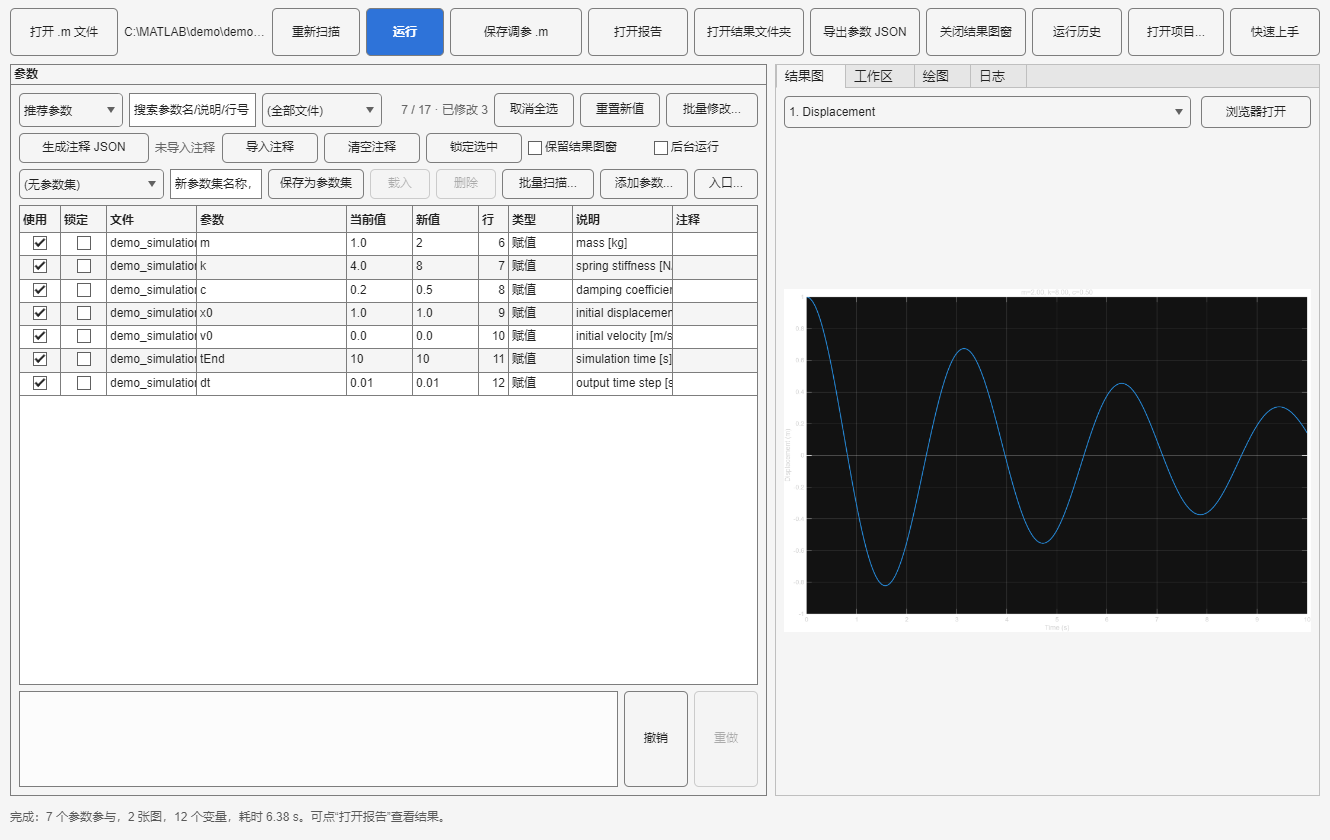
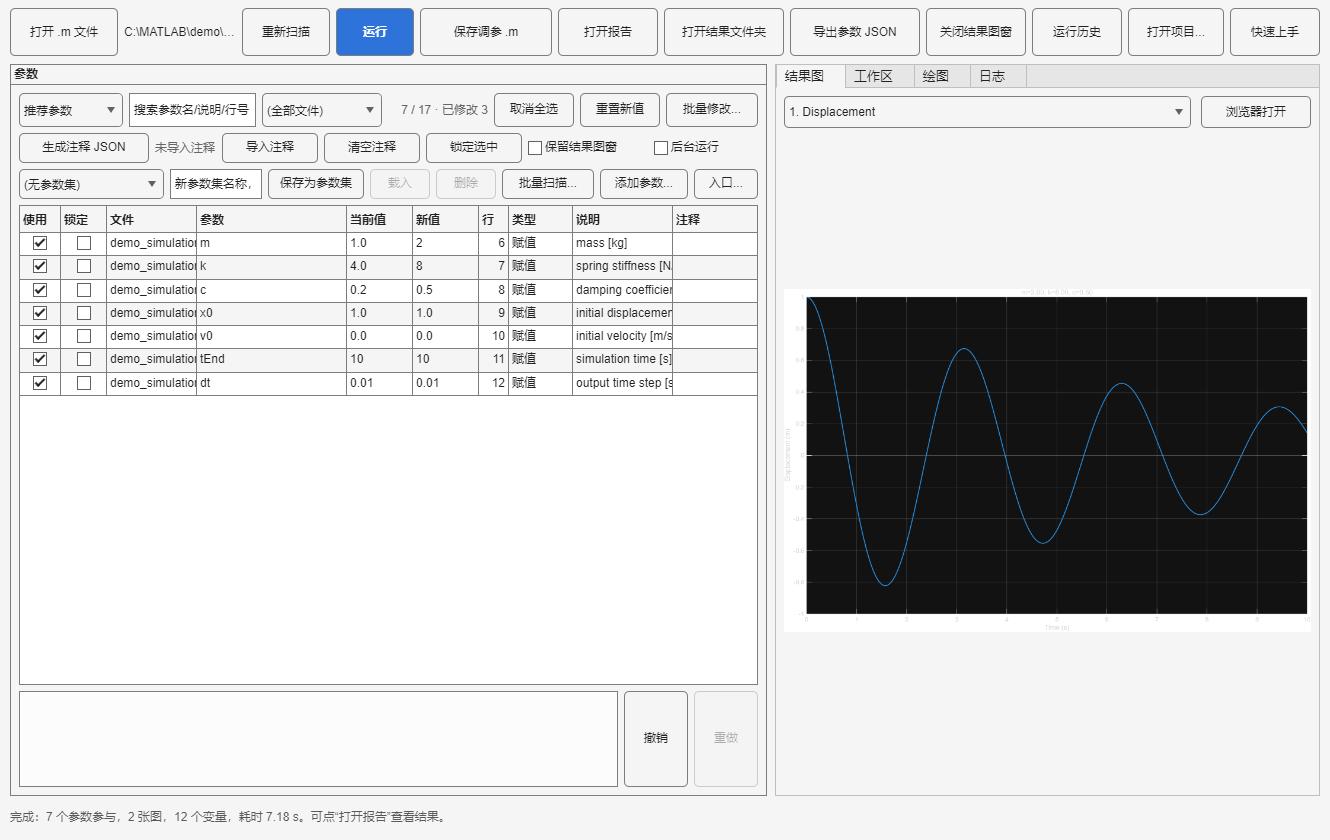
Add bilingual screenshots and fix English UI truncation
- generate Chinese and English screenshot sets from make_screenshots
- point the English README at the English screenshots
- shorten English labels and widen columns to avoid clipped text
- document the bilingual screenshot workflow in the release checklist

Changed region(s): [[0.1541, 0.0, 0.4008, 0.0929], [0.4316, 0.0, 0.6782, 0.0619]]

diff --git a/+mps/buildAppUI.m b/+mps/buildAppUI.m
@@ -7,6 +7,7 @@ function h = buildAppUI(cb)
 %   mps.App.uiCallbacks).
 
     h = struct();
+    isEnglish = strcmp(mps.language(), 'en');
 
     h.UIFigure = uifigure('Name', 'MATLAB Parameter Studio', ...
         'Position', [80 60 1340 840], 'Visible', 'off');
@@ -25,7 +26,7 @@ function h = buildAppUI(cb)
 
     tb = uigridlayout(root, [1 12]);
     tb.Layout.Row = 1;
-    tb.ColumnWidth = {108, '1x', 88, 78, 132, 100, 110, 110, 100, 90, 96, 90};
+    tb.ColumnWidth = {108, '1x', 88, 78, 132, 100, 120, 130, 100, 90, 96, 90};
     tb.Padding = [0 0 0 0];
     tb.ColumnSpacing = 6;
 
@@ -68,7 +69,7 @@ function h = buildAppUI(cb)
     h.FolderButton.Layout.Column = 7;
 
     h.ExportButton = uibutton(tb, ...
-        'Text', mps.tr('导出参数 JSON', 'Export parameters JSON'), ...
+        'Text', mps.tr('导出参数 JSON', 'Export params JSON'), ...
         'Enable', 'off', 'ButtonPushedFcn', @(s, e) cb.onExportParams());
     h.ExportButton.Layout.Column = 8;
 
@@ -108,7 +109,11 @@ function h = buildAppUI(cb)
 
     fg = uigridlayout(lg, [1 7]);
     fg.Layout.Row = 1;
-    fg.ColumnWidth = {104, '1x', 120, 100, 80, 80, 92};
+    if isEnglish
+        fg.ColumnWidth = {116, '1x', 110, 100, 110, 90, 92};
+    else
+        fg.ColumnWidth = {104, '1x', 120, 100, 80, 80, 92};
+    end
     fg.Padding = [0 0 0 0];
     fg.ColumnSpacing = 6;
 
@@ -123,7 +128,7 @@ function h = buildAppUI(cb)
 
     h.SearchField = uieditfield(fg, 'text', ...
         'Placeholder', mps.tr('搜索参数名/说明/行号', ...
-            'Search name / description / line'), ...
+            'Search...'), ...
         'ValueChangedFcn', @(s, e) cb.refreshTable());
     h.SearchField.Layout.Column = 2;
 
@@ -139,12 +144,12 @@ function h = buildAppUI(cb)
     h.CountLabel.Layout.Column = 4;
 
     h.SelectAllButton = uibutton(fg, ...
-        'Text', mps.tr('全选推荐', 'Select recommended'), ...
+        'Text', mps.tr('全选推荐', 'Use recommended'), ...
         'ButtonPushedFcn', @(s, e) cb.onSelectAll());
     h.SelectAllButton.Layout.Column = 5;
 
     h.ResetButton = uibutton(fg, ...
-        'Text', mps.tr('重置新值', 'Reset new values'), ...
+        'Text', mps.tr('重置新值', 'Reset values'), ...
         'ButtonPushedFcn', @(s, e) cb.onReset());
     h.ResetButton.Layout.Column = 6;
 
@@ -156,35 +161,39 @@ function h = buildAppUI(cb)
 
     ag = uigridlayout(lg, [1 7]);
     ag.Layout.Row = 2;
-    ag.ColumnWidth = {130, '1x', 96, 96, 96, 120, 104};
+    if isEnglish
+        ag.ColumnWidth = {140, '1x', 96, 96, 96, 120, 110};
+    else
+        ag.ColumnWidth = {130, '1x', 96, 96, 96, 120, 104};
+    end
     ag.Padding = [0 0 0 0];
     ag.ColumnSpacing = 6;
 
     h.AnnotateTemplateButton = uibutton(ag, ...
-        'Text', mps.tr('生成注释 JSON', 'Generate annotation JSON'), ...
+        'Text', mps.tr('生成注释 JSON', 'Annotation JSON'), ...
         'Enable', 'off', ...
         'ButtonPushedFcn', @(s, e) cb.onWriteAnnotationTemplate());
     h.AnnotateTemplateButton.Layout.Column = 1;
 
     h.AnnotationStatus = uilabel(ag, ...
-        'Text', mps.tr('未导入注释', 'No annotations imported'), ...
+        'Text', mps.tr('未导入注释', 'None'), ...
         'FontColor', [0.4 0.4 0.4]);
     h.AnnotationStatus.Layout.Column = 2;
 
     h.ImportAnnotationButton = uibutton(ag, ...
-        'Text', mps.tr('导入注释', 'Import annotations'), ...
+        'Text', mps.tr('导入注释', 'Import'), ...
         'Enable', 'off', ...
         'ButtonPushedFcn', @(s, e) cb.onImportAnnotations());
     h.ImportAnnotationButton.Layout.Column = 3;
 
     h.ClearAnnotationButton = uibutton(ag, ...
-        'Text', mps.tr('清空注释', 'Clear annotations'), ...
+        'Text', mps.tr('清空注释', 'Clear'), ...
         'Enable', 'off', ...
         'ButtonPushedFcn', @(s, e) cb.onClearAnnotations());
     h.ClearAnnotationButton.Layout.Column = 4;
 
     h.LockButton = uibutton(ag, ...
-        'Text', mps.tr('锁定选中', 'Lock selected'), ...
+        'Text', mps.tr('锁定选中', 'Lock'), ...
         'Enable', 'off', ...
         'ButtonPushedFcn', @(s, e) cb.onToggleLock());
     h.LockButton.Layout.Column = 5;
@@ -202,7 +211,11 @@ function h = buildAppUI(cb)
 
     pg2 = uigridlayout(lg, [1 8]);
     pg2.Layout.Row = 3;
-    pg2.ColumnWidth = {145, '1x', 96, 60, 60, 92, 88, 64};
+    if isEnglish
+        pg2.ColumnWidth = {145, '1x', 96, 60, 60, 92, 96, 80};
+    else
+        pg2.ColumnWidth = {145, '1x', 96, 60, 60, 92, 88, 64};
+    end
     pg2.Padding = [0 0 0 0];
     pg2.ColumnSpacing = 6;
 
@@ -213,7 +226,7 @@ function h = buildAppUI(cb)
 
     h.PresetNameField = uieditfield(pg2, 'text', ...
         'Placeholder', mps.tr('新参数集名称，如 基线 / 高刚度', ...
-            'New preset name, e.g. Baseline / High stiffness'));
+            'New preset name'));
     h.PresetNameField.Layout.Column = 2;
 
     h.PresetSaveButton = uibutton(pg2, ...
@@ -247,20 +260,25 @@ function h = buildAppUI(cb)
     h.ManualButton.Layout.Column = 7;
 
     h.EntryButton = uibutton(pg2, ...
-        'Text', mps.tr('入口...', 'Entry point...'), ...
+        'Text', mps.tr('入口...', 'Entry point'), ...
         'Enable', 'off', ...
         'ButtonPushedFcn', @(s, e) cb.onChooseEntry());
     h.EntryButton.Layout.Column = 8;
 
+    if isEnglish
+        tableWidths = {40, 46, 60, 110, 66, 66, 44, 76, 150, '1x'};
+    else
+        tableWidths = {40, 46, 90, 150, 66, 66, 30, 64, 100, '1x'};
+    end
     h.Table = uitable(lg, ...
         'ColumnName', {mps.tr('使用', 'Use'), mps.tr('锁定', 'Lock'), ...
             mps.tr('文件', 'File'), mps.tr('参数', 'Parameter'), ...
-            mps.tr('当前值', 'Current value'), mps.tr('新值', 'New value'), ...
+            mps.tr('当前值', 'Current'), mps.tr('新值', 'New'), ...
             mps.tr('行', 'Line'), mps.tr('类型', 'Type'), ...
             mps.tr('说明', 'Description'), mps.tr('注释', 'Notes')}, ...
         'ColumnEditable', [true true false false false true false false false false], ...
         'ColumnFormat', {'logical', 'logical', 'char', 'char', 'char', 'char', 'numeric', 'char', 'char', 'char'}, ...
-        'ColumnWidth', {40, 46, 90, 150, 66, 66, 30, 64, 100, '1x'}, ...
+        'ColumnWidth', tableWidths, ...
         'RowName', [], ...
         'CellEditCallback', @(s, e) cb.onCellEdit(e), ...
         'CellSelectionCallback', @(s, e) cb.onCellSelect(e));

diff --git a/docs/make_screenshots.m b/docs/make_screenshots.m
@@ -1,7 +1,12 @@
-%MAKE_SCREENSHOTS Regenerate docs screenshots with a generic demo path.
+%MAKE_SCREENSHOTS Regenerate docs screenshots in Chinese and English.
 %
 %   Run in a desktop MATLAB session:
 %       run('docs/make_screenshots.m')
+%
+%   Produces both language sets:
+%       docs/screenshot.png / docs/screenshot_en.png
+%       docs/screenshot_annotations.png / docs/screenshot_annotations_en.png
+%       docs/screenshot_sweep.png / docs/screenshot_sweep_en.png
 %
 %   The path shown in the UI must not contain a real user home directory.
 %   Override the demo location with MPS_SCREENSHOT_DEMO_DIR if needed.
@@ -22,42 +27,79 @@ end
 demo = fullfile(demoDir, 'demo_simulation.m');
 copyfile(fullfile(root, 'demo', 'demo_simulation.m'), demo);
 
-app = mps.App('Visible', 'on');
-cleaner = onCleanup(@() delete(app)); %#ok<NASGU>
-app.UIFigure.Position = [100 100 1330 840];
-app.loadFile(demo);
-app.setParam('m', 2);
-app.setParam('k', 8);
-app.setParam('c', 0.5);
-app.runCurrent();
-drawnow;
-exportapp(app.UIFigure, fullfile(root, 'docs', 'screenshot.png'));
+oldLang = mps.language();
+langCleaner = onCleanup(@() mps.setLanguage(oldLang)); %#ok<NASGU>
 
-ann = struct();
-ann.m = struct('description', 'mass', 'unit', 'kg');
-ann.k = struct('description', 'spring stiffness', 'unit', 'N/m');
-ann.c = struct('description', 'damping coefficient', 'unit', 'N*s/m');
-ann.x0 = struct('description', 'initial displacement', 'unit', 'm');
-ann.v0 = struct('description', 'initial velocity', 'unit', 'm/s');
-ann.tEnd = struct('description', 'simulation time', 'unit', 's');
-ann.dt = struct('description', 'output time step', 'unit', 's');
-annPath = fullfile(demoDir, 'demo_annotations.json');
-fid = fopen(annPath, 'w', 'n', 'UTF-8');
-fprintf(fid, '%s', jsonencode(ann));
-fclose(fid);
-app.importAnnotations(annPath);
-drawnow;
-exportapp(app.UIFigure, fullfile(root, 'docs', 'screenshot_annotations.png'));
+langs = {'zh', 'en'};
+suffixes = {'', '_en'};
+for li = 1:numel(langs)
+    lang = langs{li};
+    suffix = suffixes{li};
+    mps.setLanguage(lang);
+    cleanupRunOutputs(demoDir);
 
-runRoot = fullfile(demoDir, 'parameter_studio_runs');
-if isfolder(runRoot)
-    rmdir(runRoot, 's');
+    app = mps.App('Visible', 'on');
+    cleaner = onCleanup(@() delete(app));
+    app.UIFigure.Position = [100 100 1330 840];
+    app.loadFile(demo);
+    app.setParam('m', 2);
+    app.setParam('k', 8);
+    app.setParam('c', 0.5);
+    app.runCurrent();
+    drawnow;
+    exportapp(app.UIFigure, fullfile(root, 'docs', ...
+        ['screenshot' suffix '.png']));
+
+    ann = struct();
+    ann.m = struct('description', 'mass', 'unit', 'kg');
+    ann.k = struct('description', 'spring stiffness', 'unit', 'N/m');
+    ann.c = struct('description', 'damping coefficient', 'unit', 'N*s/m');
+    ann.x0 = struct('description', 'initial displacement', 'unit', 'm');
+    ann.v0 = struct('description', 'initial velocity', 'unit', 'm/s');
+    ann.tEnd = struct('description', 'simulation time', 'unit', 's');
+    ann.dt = struct('description', 'output time step', 'unit', 's');
+    annPath = fullfile(demoDir, 'demo_annotations.json');
+    fid = fopen(annPath, 'w', 'n', 'UTF-8');
+    fprintf(fid, '%s', jsonencode(ann));
+    fclose(fid);
+    app.importAnnotations(annPath);
+    drawnow;
+    exportapp(app.UIFigure, fullfile(root, 'docs', ...
+        ['screenshot_annotations' suffix '.png']));
+
+    p = mps.scan(demo);
+    ki = find(strcmp({p.name}, 'k'), 1);
+    runner = mps.SweepRunner(demo, p, ki, {[4 8]}, true, 't', {'y'}, false);
+    runner.MaxScenarios = 2;
+    out = runner.run();
+    if isfield(out, 'overlayPath') && ~isempty(out.overlayPath) ...
+            && isfile(out.overlayPath)
+        copyfile(out.overlayPath, fullfile(root, 'docs', ...
+            ['screenshot_sweep' suffix '.png']));
+    end
+
+    clear cleaner;   % delete the app before the next language
+    cleanupRunOutputs(demoDir);
+    fprintf('Screenshots updated (%s) in %s\n', lang, ...
+        fullfile(root, 'docs'));
 end
-sidecars = {mps.sessionPath(demo), mps.manualParamsPath(demo), ...
-    fullfile(demoDir, 'demo_simulation_annotations.json'), annPath};
-for k = 1:numel(sidecars)
-    if isfile(sidecars{k})
-        delete(sidecars{k});
+
+mps.setLanguage(oldLang);
+
+% -------------------------------------------------------------------------
+function cleanupRunOutputs(demoDir)
+    runRoot = fullfile(demoDir, 'parameter_studio_runs');
+    if isfolder(runRoot)
+        rmdir(runRoot, 's');
+    end
+    sidecars = { ...
+        fullfile(demoDir, 'demo_simulation_session.json'), ...
+        fullfile(demoDir, 'demo_simulation_manual.json'), ...
+        fullfile(demoDir, 'demo_simulation_annotations.json'), ...
+        fullfile(demoDir, 'demo_annotations.json')};
+    for k = 1:numel(sidecars)
+        if isfile(sidecars{k})
+            delete(sidecars{k});
+        end
     end
 end
-fprintf('Screenshots updated in %s\n', fullfile(root, 'docs'));

diff --git a/+mps/ParameterTableController.m b/+mps/ParameterTableController.m
@@ -256,7 +256,7 @@ classdef ParameterTableController < handle
                         'Deselect all');
                 else
                     obj.SelectAllButton.Text = mps.tr('全选推荐', ...
-                        'Select all recommended');
+                        'Use recommended');
                 end
             end
             obj.updateUndoButtons();
@@ -641,11 +641,11 @@ classdef ParameterTableController < handle
             end
             if n == 0
                 obj.AnnotationStatus.Text = mps.tr('未导入注释', ...
-                    'No notes imported');
+                    'None');
                 obj.AnnotationStatus.FontColor = [0.4 0.4 0.4];
             else
                 obj.AnnotationStatus.Text = mps.tr('已注释 %d / %d', ...
-                    'Annotated %d / %d', n, total);
+                    'Notes %d/%d', n, total);
                 obj.AnnotationStatus.FontColor = [0.05 0.45 0.15];
             end
         end

diff --git a/README.md b/README.md
@@ -12,7 +12,7 @@
 
 [Quick start](#quick-start) · [Features](#features) · [How it works](#how-it-works) · [Batch sweeps](#batch-sweeps) · [Comparison](#how-it-compares) · [Limitations](#known-limitations)
 
-<img src="docs/screenshot.png" alt="MATLAB Parameter Studio main window" width="1100" />
+<img src="docs/screenshot_en.png" alt="MATLAB Parameter Studio main window" width="1100" />
 
 <sub>Main window: parameter table, results, and report preview in one place.</sub>
 
@@ -24,7 +24,7 @@
 
 It is built for the workflow where an AI or a colleague generates a simulation script, and you then need to tune masses, stiffnesses, gains, time steps, or controller constants without editing code line by line — and without sending the same request back to a chat model.
 
-> **UI language:** the standard launcher opens the Chinese UI. Use `MatlabParameterStudioEnglish` (or `MatlabParameterStudio('Language','en')`) for the English UI. Button names below describe the action; both UI languages use the same workflow.
+> **UI language:** the screenshots below show the English UI. The standard launcher opens the Chinese UI; use `MatlabParameterStudioEnglish` (or `MatlabParameterStudio('Language','en')`) for English. Both UI languages use the same workflow.
 
 ## Quick start
 
@@ -81,13 +81,13 @@ parameter_studio_runs/<timestamp>/
 
 Give parameters human-readable meaning without renaming code variables:
 
-![Annotation column](docs/screenshot_annotations.png)
+![Annotation column](docs/screenshot_annotations_en.png)
 
 ### Batch sweeps
 
 Run a grid of parameter combinations and compare the curves in one report:
 
-![Sweep overlay](docs/screenshot_sweep.png)
+![Sweep overlay](docs/screenshot_sweep_en.png)
 
 ## How it works
 

diff --git a/docs/RELEASE_CHECKLIST.md b/docs/RELEASE_CHECKLIST.md
@@ -32,8 +32,10 @@ timestamped log under `logs/`. For an environment-only check use
 
 ## Documentation
 
-- `docs/screenshot.png` and `docs/screenshot_annotations.png` were generated
-  with `docs/make_screenshots.m`;
+- `docs/screenshot*.png` (Chinese) and `docs/screenshot*_en.png` (English)
+  were generated with `docs/make_screenshots.m`;
+- the English README uses the `_en` screenshots; the Chinese README uses the
+  Chinese screenshots;
 - screenshots contain no user home directory or real project path;
 - `README.md` is the English default and `README.zh-CN.md` is current;
 - README usage and test commands match the release;
